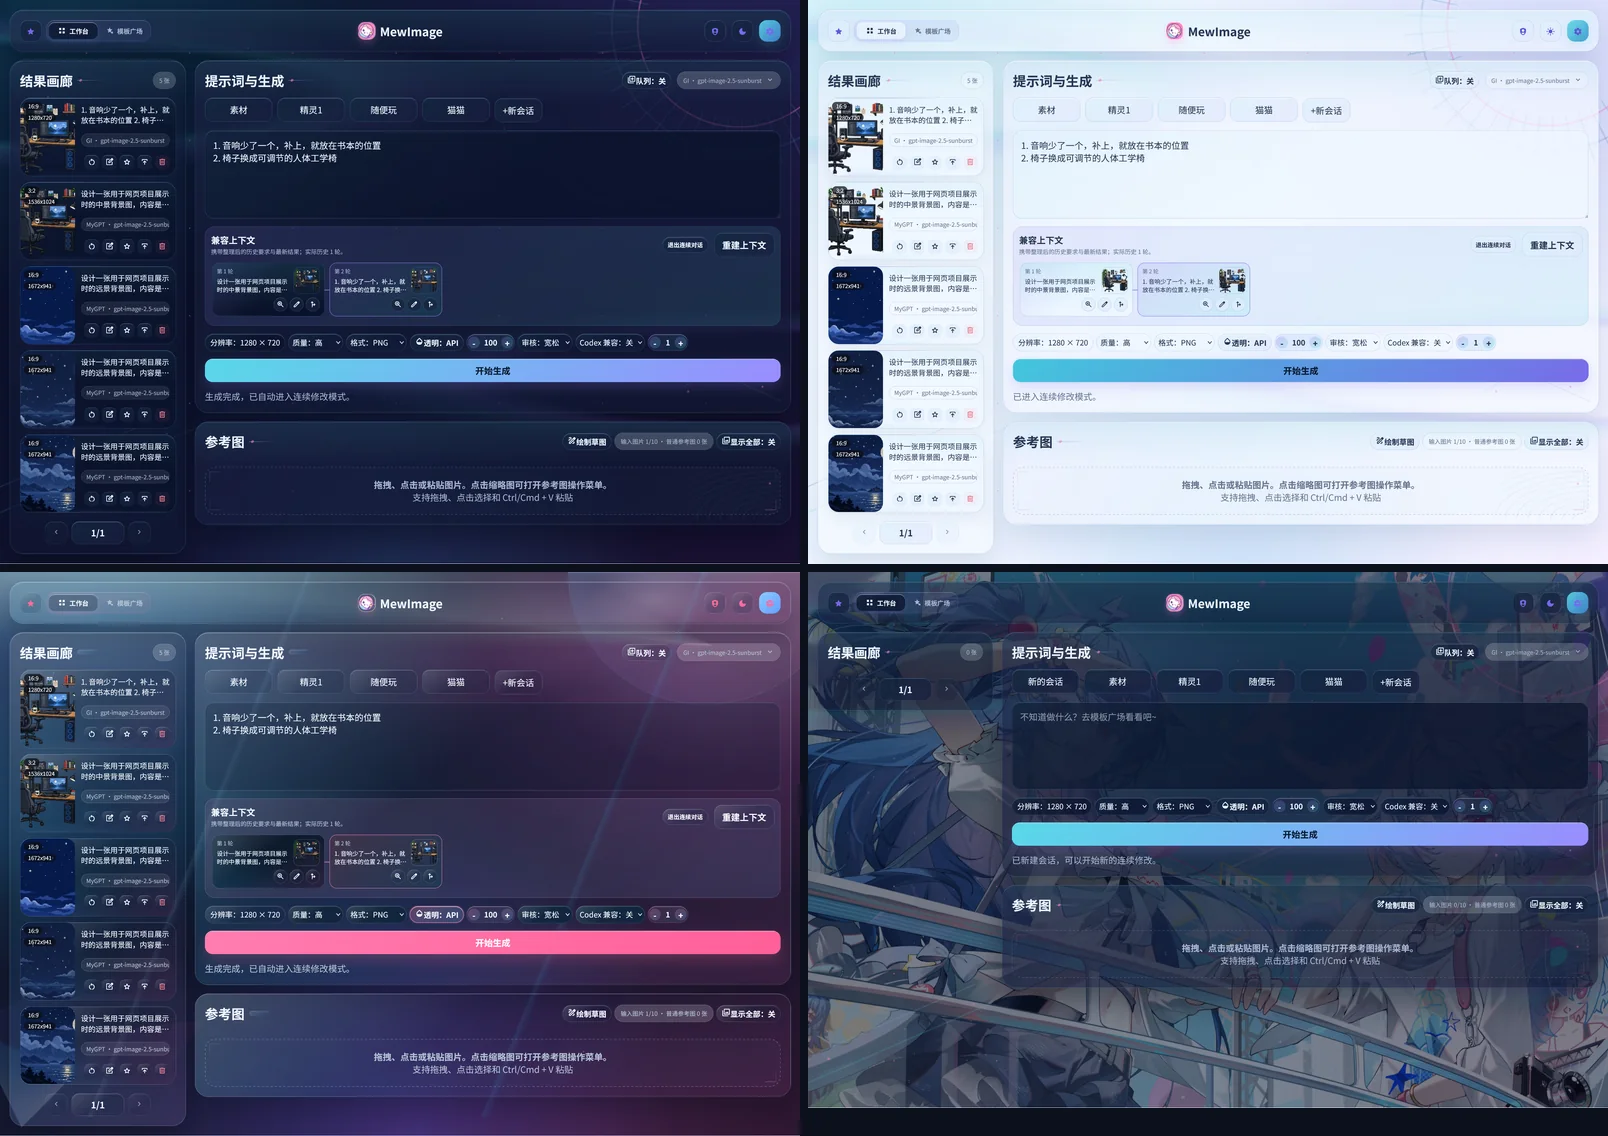
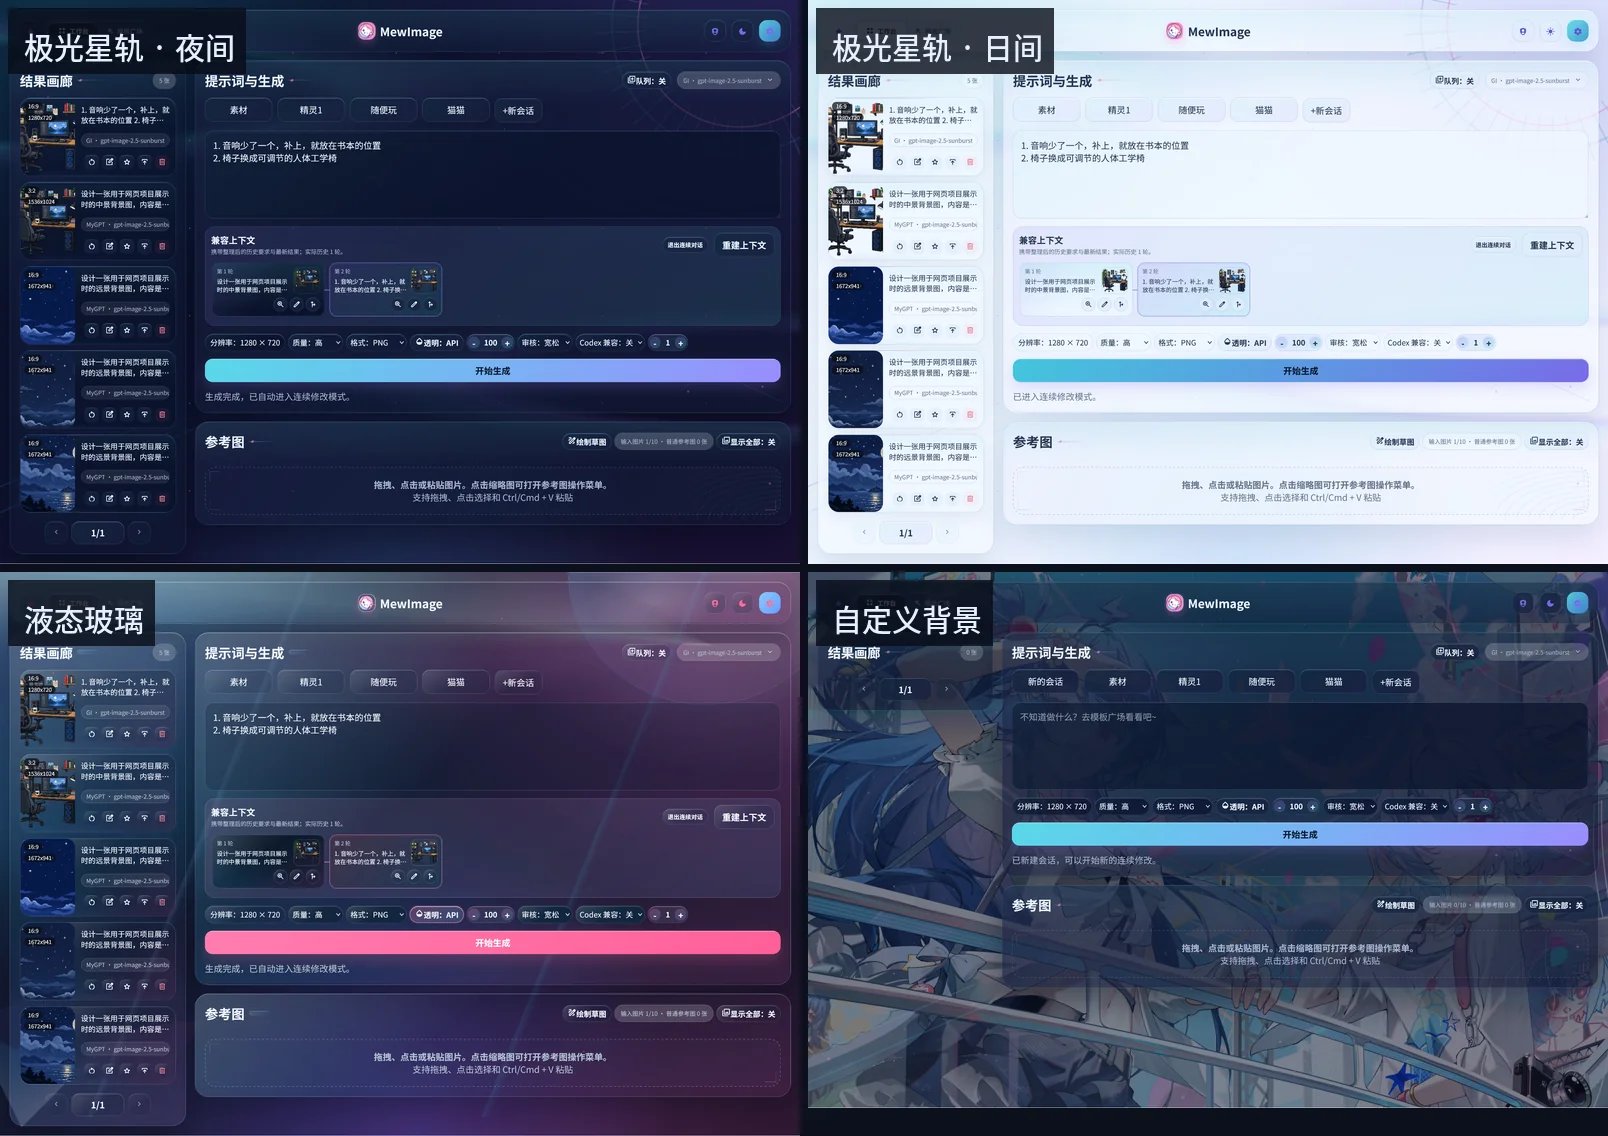
README 修正主题说明与本地开发，新增本地开发文档页
- 主题说明改对：三套主题（经典 Mew / 极光星轨 / 液态玻璃）各有日夜，截图只放了星轨的日夜 + 液态玻璃 + 自定义背景；拼图加上中文标签
- 去掉模板广场截图
- 本地开发一节扩写，并新增 documentation/local-dev.md：.env 不自动加载、两个 SSRF 开发开关的生效前提、图片重定向检查、Fake-IP DNS、Windows 工作区测试的 PDB 设置、deny.toml 的例外条目
- 文档站同步为 20 页

diff --git a/documentation/local-dev.md b/documentation/local-dev.md
@@ -1,0 +1,76 @@
+# 本地开发与联调
+
+> 起本地前后端、让后端访问同机或局域网上游、以及测试时容易踩到的几个坑。
+
+本地跑起来要起两个进程：后端 `127.0.0.1:3000`，前端 `trunk serve` 在 `8080`。日常用 `http://127.0.0.1:3000` 就能拿到完整功能；只开 `trunk serve` 时纯前端部分可用，涉及后端代理的能力会受限。
+
+## 依赖
+
+```bash
+rustup target add wasm32-unknown-unknown
+cargo install trunk --version 0.21.14 --locked   # 版本要和 Dockerfile / CI 对齐
+```
+
+## 启动
+
+```bash
+cargo run -p mew-image-backend    # 后端，默认 127.0.0.1:3000
+
+cd frontend && trunk serve --open  # 前端，8080
+```
+
+## `.env` 不会被自动读取
+
+`cargo run` **不会**自动加载项目根目录的 `.env`——那是 `docker compose` 的行为。想让后端读到某个变量，只能在**启动后端的同一个终端**里先 `export`，或者写在命令前面。
+
+```bash
+# Linux / macOS
+MEW_LISTEN=127.0.0.1:3000 cargo run -p mew-image-backend
+
+# Windows PowerShell
+$env:MEW_LISTEN = "127.0.0.1:3000"
+cargo run -p mew-image-backend
+```
+
+在前端终端里设置变量不影响已经启动的后端。
+
+## 让后端访问本机或局域网的上游
+
+后端默认拒绝私网、链路本地和环回地址。本地联调时按情况开对应的开关，**都要在启动后端的那个终端里设置**：
+
+| 场景 | 需要的变量 |
+| --- | --- |
+| 同机的明文 HTTP 上游 | `MEW_ALLOW_HTTP_UPSTREAM=true` + `MEW_ALLOW_LOOPBACK_UPSTREAM=true` |
+| 上游解析到局域网或代理软件的 Fake-IP（如 `198.18.x.x`） | `MEW_LISTEN=127.0.0.1:3000` + `MEW_ALLOW_HTTP_UPSTREAM=true` + `MEW_DEV_BYPASS_UPSTREAM_SSRF=true` |
+
+```bash
+# 例：完整绕过主机与解析 IP 检查（仅本机开发）
+MEW_LISTEN=127.0.0.1:3000 \
+MEW_ALLOW_HTTP_UPSTREAM=true \
+MEW_DEV_BYPASS_UPSTREAM_SSRF=true \
+cargo run -p mew-image-backend
+```
+
+> ⚠ **两个开关都要求后端自己监听环回地址**
+>
+> `MEW_ALLOW_LOOPBACK_UPSTREAM` 只放行显式的 `127.0.0.1`、`::1`、`localhost`、`localhost.localdomain`；`10.x`、`172.16–31.x`、`192.168.x` 仍然被拒。`MEW_DEV_BYPASS_UPSTREAM_SSRF` 会跳过生成、图片下载和图片重定向的主机与解析 IP 检查，但绑定 `0.0.0.0`、`[::]` 或局域网地址时**会被忽略并记一条警告**。启动日志会写明开关到底生效没有——先看日志，别猜。
+
+## 测试时常见的坑
+
+- **生图还会去下载图片 URL**，而且逐次检查重定向。所以即使 API 域名是公网地址，只要图片链接解析到私网或 Fake-IP，仍然会被拦。错误信息里有目标主机，后端日志里有实际解析到的地址，用它定位。
+- **改完环境变量要重启后端**。变量只在启动时读一次，`trunk serve` 的热更新不会带走后端。
+- **`MEW_DEV_BYPASS_UPSTREAM_SSRF` 打开后是全局放行**，不要再通过反向代理或隧道把它暴露出去；测完关掉终端或清变量：
+  - PowerShell：`Remove-Item Env:MEW_DEV_BYPASS_UPSTREAM_SSRF, Env:MEW_ALLOW_HTTP_UPSTREAM`
+  - Bash/Zsh：`unset MEW_DEV_BYPASS_UPSTREAM_SSRF MEW_ALLOW_HTTP_UPSTREAM`
+- **允许来源要对得上**。前端跑在 `8080` 时，后端默认的 `MEW_ALLOWED_ORIGINS` 已经包含 `http://127.0.0.1:8080`；换了端口要自己加，末尾不要带 `/`。
+- **Windows 下跑整个工作区测试**：`Cargo.toml` 里 `[profile.test]` 关掉了调试符号，原因是完整工作区测试会超过 MSVC 单个 PDB 的容量。别把它改回来。
+- **依赖审计**：`deny.toml` 里挂着两条 Leptos 0.8 间接依赖的 RUSTSEC 例外，带到期时间。升级 Leptos 时要回头清掉。
+
+## 相关页面
+
+- 生产构建与镜像：[部署](deploy.md)
+- 环境变量逐项说明：[环境变量参考](config.md)
+- 上游被拦的完整排查：[排障](troubleshooting.md)
+---
+
+[← 文档目录](README.md) · [上一页：排障](troubleshooting.md) · [下一页：架构与设计原则](architecture.md)

diff --git a/README.md b/README.md
@@ -27,15 +27,13 @@
 
 ## 截图
 
+*经典 Mew 主题的工作台*
+
 ![工作台](documentation/images/workbench.webp)
 
-四套主题：星轨 · 星轨日间 · 液态玻璃 · 自定义背景
+*三套主题（经典 Mew / 极光星轨 / 液态玻璃）各自都有日间与夜间。这里放的是极光星轨的夜间、日间，以及液态玻璃和自定义背景*
 
 ![主题](documentation/images/themes.webp)
-
-模板广场
-
-![模板广场](documentation/images/plaza.webp)
 
 ## 功能
 
@@ -120,11 +118,13 @@ docker compose up -d
 rustup target add wasm32-unknown-unknown
 cargo install trunk --version 0.21.14 --locked
 
-cd backend && cargo run          # 后端 127.0.0.1:3000
-cd frontend && trunk serve       # 前端 8080
+cargo run -p mew-image-backend    # 后端 127.0.0.1:3000
+cd frontend && trunk serve --open  # 前端 8080
 ```
 
-本机连局域网内的上游、或代理软件用 Fake-IP DNS 时会被 SSRF 策略拦住，见[排障](documentation/troubleshooting.md)。
+`cargo run` 不会自动读根目录的 `.env`（那是 `docker compose` 的行为），要读到变量得在启动后端的同一个终端里先 `export`。本机或局域网的上游会被 SSRF 策略拦住，按情况开 `MEW_ALLOW_LOOPBACK_UPSTREAM` / `MEW_DEV_BYPASS_UPSTREAM_SSRF`——两个开关都要求后端自己监听环回地址，启动日志会写明生效没有。
+
+踩过的坑（`.env` 不自动加载、图片重定向也走检查、Fake-IP DNS、Windows 跑整个工作区测试、依赖审计例外）整理在[本地开发与联调](documentation/local-dev.md)。
 
 ## 许可
 

diff --git a/documentation/troubleshooting.md b/documentation/troubleshooting.md
@@ -145,4 +145,4 @@ MEW_TRUST_PROXY_HEADERS=false
 [部署](deploy.md) · [环境变量参考](config.md) · [后端资源存储](storage.md) · [快速开始](quickstart.md)
 ---
 
-[← 文档目录](README.md) · [上一页：后端资源存储](storage.md) · [下一页：架构与设计原则](architecture.md)
+[← 文档目录](README.md) · [上一页：后端资源存储](storage.md) · [下一页：本地开发与联调](local-dev.md)
